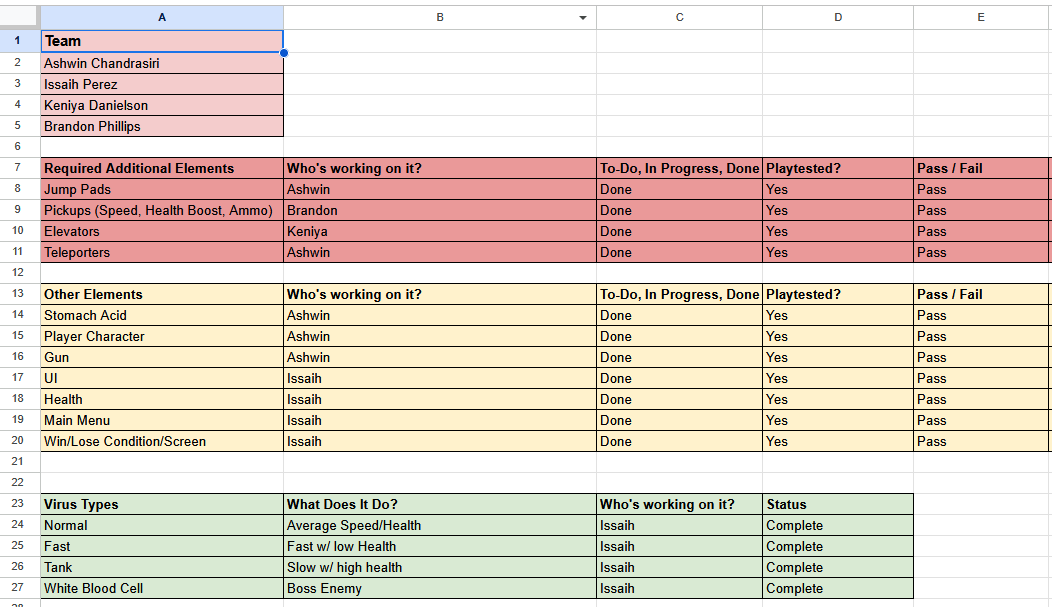
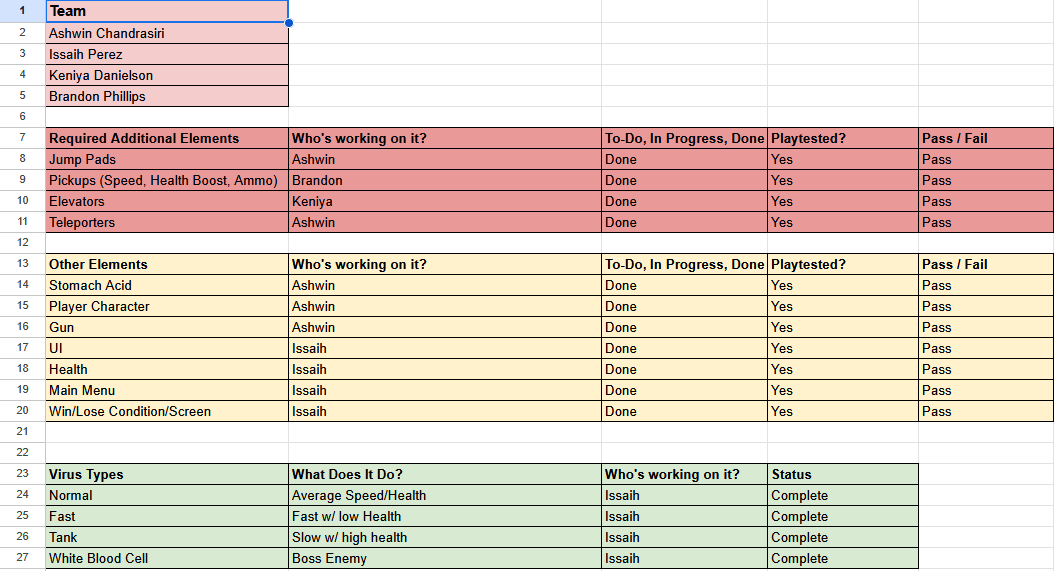
Change Context Images3

diff --git a/index.md b/index.md
@@ -17,7 +17,7 @@ collaboratively, communicate effectively with stakeholders, and apply technical 
 data structures, algorithms, databases, and secure software development.
 
 
-<img src="assets/images/GAMCollab.jpg" alt="GAM 305 Collaboration Document Picture">
+<img src="assets/images/GAMCollab.png" alt="GAM 305 Collaboration Document Picture">
 
 ### ***Collaborating in a Team Environment:***
 Collaboration has been central to my development as a software engineer. During my senior year
